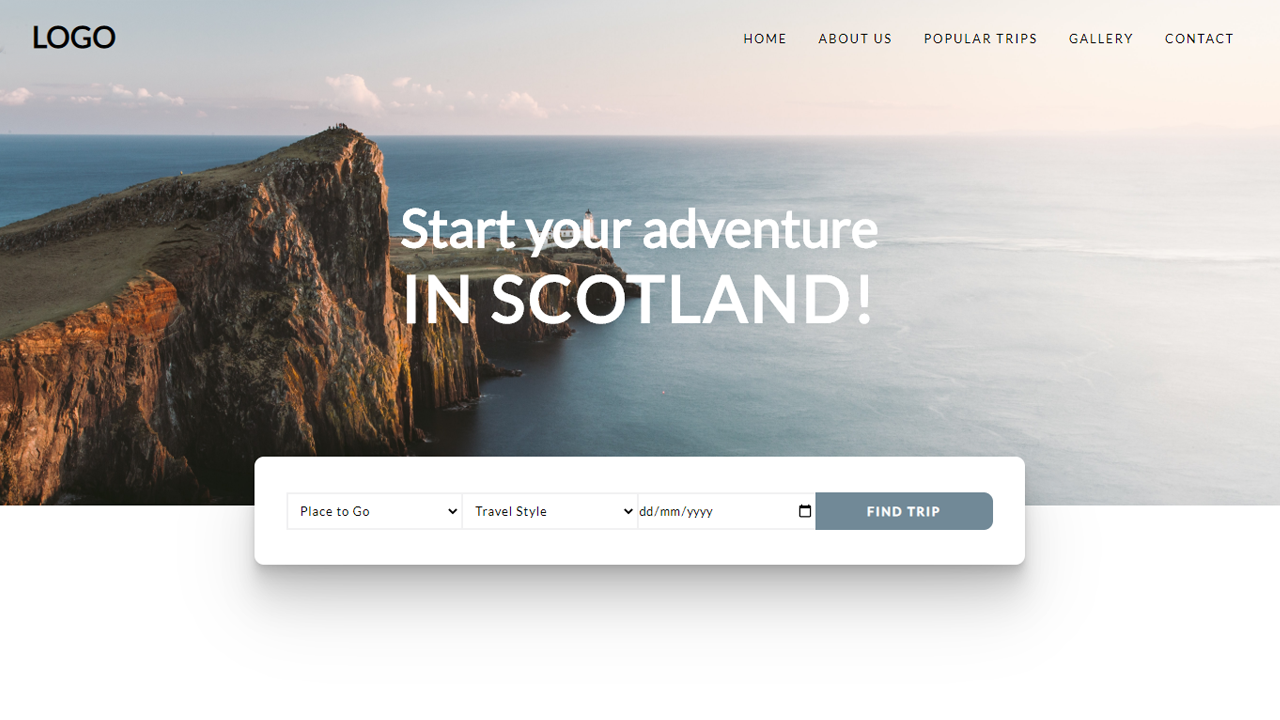
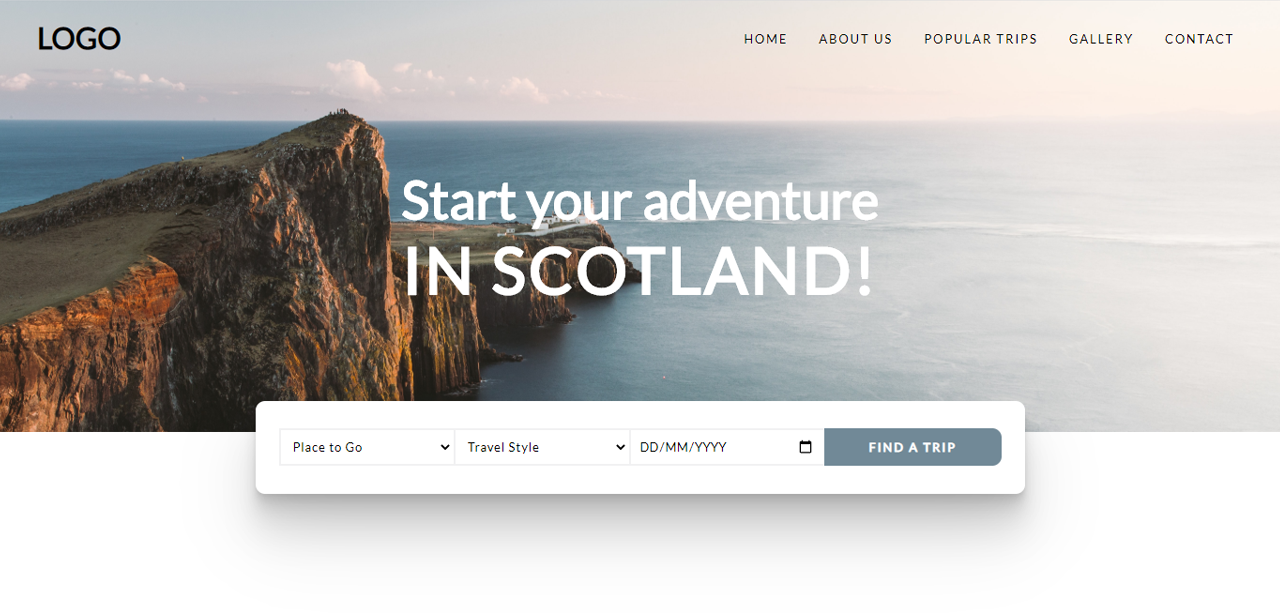
readme image ready

diff --git a/main.css b/main.css
@@ -39,6 +39,7 @@
     font-size: 2rem;
     font-weight: bold;
     color: black;
+    margin-left: 20px;
 }
 
 .headline{
@@ -128,6 +129,8 @@
     height: 36px;
     border: 2px solid #f1f1f2;
     margin: -1px;
+    padding: 0 9px 0 9px;
+    text-transform: uppercase;
 }
 
 

diff --git a/index.html b/index.html
@@ -47,7 +47,7 @@
                 <input id="period" type="date">
                 
                 
-                <button id="buttonsearch">Find Trip</button>
+                <button id="buttonsearch">Find a Trip</button>
 
             </form>
 
